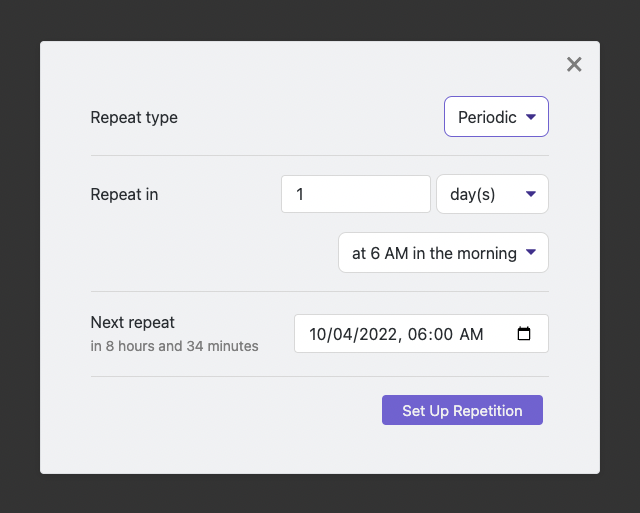
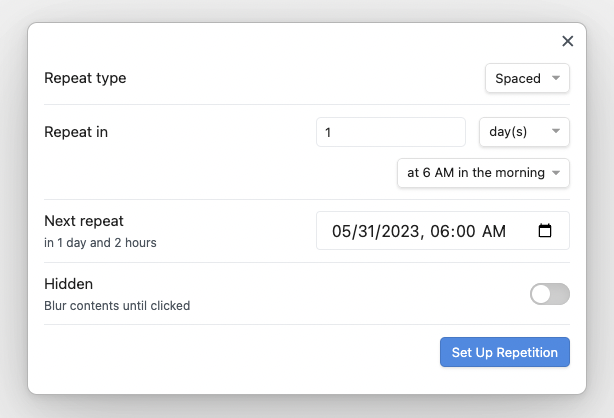
Streamline the README (#23)

diff --git a/README.md b/README.md
@@ -1,110 +1,100 @@
-# Repeat Plugin for Obsidian
+# Obsidian Repeat Plugin: Enhance Your Note Review Experience
 
-This plugin allows you to review notes using periodic or spaced repetition:
+The Obsidian Repeat Plugin offers a comprehensive solution for efficiently reviewing notes using periodic and spaced repetition.
+By integrating directly into your Obsidian workspace, this plugin provides a streamlined and effective way to revisit and retain information from your notes over time:
 
-*   Reviews of notes using **periodic repetition** can occur daily, weekly, monthly, yearly, or every _K_  days/weeks/months/years. By default, periodic reviews become due early in the morning so that all periodic notes due on a given date become due at the same time.
-*   Reviews of notes using **spaced repetition** occur on an dynamic schedule. You can choose how to modify a spaced note's review frequency at each review. For example, if the current review frequency is every 10 days, then you can choose the next review to occur in 5 days (0.5x), 10 days (1x), 15 days (1.5x), or 20 days (2x).
+1. **Periodic Repetition**:
+   - Seamlessly review your notes on a recurring basis.
+   - Customize the frequency of reviews to suit your preferences.
+   - Choose from a range of options: daily, weekly, monthly, yearly, or set a specific interval of K days/weeks/months/years.
+   - By default, periodic reviews are scheduled early in the morning, ensuring all notes due on a given date are conveniently reviewed together.
 
-### Some Usage Examples
+2. **Spaced Repetition**:
+   - Optimize your learning with a dynamic review schedule.
+   - Modify the frequency of spaced repetition for each note during reviews.
+   - For instance, if the current review frequency is set at every 10 days, you can effortlessly adjust the next review to occur in 5 days (0.5x), 10 days (1x), 15 days (1.5x), or 20 days (2x).
 
-*   Review your journal entries every year to gain insights into what you were thinking about 1, 2, 3... years ago.
-*   Surface weekly reminders for recurring tasks. E.g., review journal articles every Wednesday.
-*   Create a book note when you start a new read. Then surface the note every few days and add your thoughts about the book so far.
-*   Summarize a concept you wish to remember, then use spaced repetition to remember it in the long term.
+Our plugin provides a seamless and versatile note reviewing experience, allowing you to maximize retention and effectively manage your knowledge.
 
-### Installation
+## Why Use the Repeat Plugin?
 
-1.  Install the DataView plugin (which is used to query notes frontmatter).
-2.  Install the Repeat plugin (this plugin).
+* **Gain Insights Over Time**: Consider the value of gaining insights into your thoughts and ideas from previous years. With the Repeat Plugin, you can review your journal entries or any other notes on a yearly basis, giving you a unique perspective on your personal growth and evolving perspectives.
 
-## Reviewing Notes
+* **Stay on Top of Recurring Tasks and Goals**: The plugin also serves as a handy reminder system for recurring tasks. Whether it's reviewing journal articles every Wednesday or going through your task list at specific intervals, the Repeat Plugin can surface these reminders to help you stay on track and make progress.
 
-Reviews are conducted through a **Repeat view** added by this plugin. To open the Repeat view, you can either click the "clock" icon in Obsidian's ribbon menu, or run the _Review due notes_ command.
+* **Get the Most from Your Reading**: Are you an avid reader? By creating a book note when you start a new read and using spaced repetition, you can reinforce your understanding of the book's content by occasionally adding your thoughts and reflections. This way, you'll have a comprehensive summary of your reading experience and a deeper understanding of the material.
 
-![A demonstration of Repeat Plugin's note reviews](./images/repeat-view.png)
+- **Long-Term Knowledge Retention**: If you're studying complex concepts or want to ensure long-term retention of important information, the Repeat Plugin can assist you. Summarize the key points of a concept you wish to remember and use spaced repetition to reinforce it over time. You can even keep the body of the note you're reviewing hidden until you're ready to check your answer. This technique will help you solidify your understanding and recall the information when you need it most.
 
-## Choosing Notes to Repeat
+## Installation and Integration
 
-To mark a note as repeating, you can use one of the following **commands** while editing a note:
+Getting started with the Repeat Plugin is a breeze and consists of going to Obsidian's community plugins list (via Settings > Options > Community plugins > Browse) and installing
 
-*   _Repeat this note..._ lets you customize a note's repetition.
-*   _Repeat this note every day_
-*   _Repeat this note every week_
-*   _Repeat this note every month_
-*   _Repeat this note every year_
+1. The Dataview Plugin
+2. The Repeat Plugin
 
-This is what the _Repeat this note..._ modal looks like:
+Once installed, the Repeat Plugin adds a **Repeat view** to your Obsidian workspace.
+Simply click the "clock" icon in Obsidian's ribbon menu or run the **Review due notes** command to access the Repeat view.
+
+You may also notice a due note counter added to Obsidian's status bar.
+Initially, you won't have any notes due, so read on to find out how to mark notes for repetition.
+Once a note becomes due for review, the due note counter in the status bar will update and you will be able to review the note in the newly added Repeat view.
+
+## Tailoring Your Note Reviews
+
+The Repeat Plugin offers flexible options for choosing which notes to review and customizing their repetition patterns.
+This section describes how you can make the most of it.
+
+### 1. Easily Mark a Note for Repetition
+
+While editing a note, you can use convenient commands to mark it for repetition:
+
+- **Repeat this note...**: Opens a modal where you can customize the note's repetition settings.
+- **Repeat this note every day/week/month/year**: Quickly set the note to repeat at regular intervals.
 
 ![The "Repeat this note..." modal](./images/modal.png)
 
-Repetition state is stored in the `repeat` and `due_at` frontmatter fields.
+Repetition information is stored in the `repeat`, `due_at`, and `hidden` frontmatter fields of the note.
+You can also manually create or edit these fields to customize the repetition settings.
 
-```yaml
----
-repeat: every 3 days
-due_at: 2022-10-03T06:00:00.000-04:00
----
-```
+### 2. Customizing Repetition Patterns
 
-You can also create or edit these fields manually instead of via a command. If you add the `repeat` field to a note's frontmatter, the plugin will use some basic heuristics to figure out when its first review should be. After the first review, `due_at` is automatically populated with an [ISO datetime](https://github.com/moment/luxon/blob/master/docs/parsing.md#iso-8601) of the next review. Repeat plugin is careful not to change any other frontmatter fields when you use its repeat setup commands.
+The `repeat` field allows you to define the repetition pattern for your notes. Here are some formatting options:
 
-### `repeat` Field Formatting
+- **Periodic Repetition**: Use values like `daily`, `weekly`, `monthly`, `yearly`, or specify a specific interval like `every K days/weeks/months/years`.
+- **Spaced Repetition**: Use the format `spaced every K hours/days/weeks/months/years` to pick the initial review period. Future review periods will be dynamically set at review time by the plugin.
 
-You can always use the _Repeat this note..._ command to fix or set up the repeat frontmatter fields of a note. If you wish to configure repeat notes manually or for a template, use one of the recognized values described below. If in doubt, see `parseRepeat()` in `src/repeat/parsers.ts`.
-#### For **Notes Using Periodic Repetition**
+For example, if you want to review a note every three days, set the `repeat` field to `every 3 days`.
+The plugin will automatically calculate the next review date based on this pattern and populate the `due_at` field when you first review the note.
 
-*   `daily`
-*   `weekly`
-*   `monthly`
-*   `yearly`
-*   `every day`, `every week`, `every month`, `every year`
-*   `every K days`, `every K weeks`, `every K months`, `every K years` for `K = 1, 2, 3, ...`
+### 3. Morning or Evening Repetition
 
-#### For **Notes Using Spaced Repetition**
+By default, periodic notes and spaced notes with intervals of at least a week become due at 6 AM. If you prefer an evening review, you can add `in the evening` to the note's repeat field.
+For example, changing `repeat: every 2 weeks` to `repeat: every 2 weeks in the evening` will make the note due at 6 **PM** every two weeks.
 
-*   `spaced every K hours`, `spaced every K days`, `spaced every K weeks`, `spaced every K months`, `spaced every K years` for `K = 1, 2, 3, ...`
-*   On first review, notes using spaced repetition will have their repeat field modified to `spaced every K hours`
+You can also adjust the repetition time using the convenient options available in the "Repeat this note..." modal. If you choose a note for evening repetition, your choice will of course be preserved between reviews.
 
-#### Morning or Evening Repetition
+### 4. One-Sided Flashcards
 
-All periodic notes and spaced notes with a repetition interval of at least
-a week become due at 6AM in the morning. You can make them become due at 6PM
-in the evening by adding `in the evening` to the end of the note's repeat field.
-For example, you would turn
+When you enable the "Hidden" option while adjusting the repetition fields of a note in the "Repeat this note..." modal (manually represented as `hidden: true`), the content of your note will appear blurred in the Repeat view. By clicking on the blurred content, you can reveal the hidden information, allowing you to effectively test your knowledge and strengthen your understanding using one-sided flashcards.
 
-```
-repeat: spaced every 14 days
-```
+### 5. Extra Features
 
-to
+You have the option to exclude a specific folder from note reviews, which proves especially beneficial if your vault includes templates.
+Accessing the settings for the Repeat Plugin is easy: simply go to Settings > Community plugins > Repeat.
 
-```
-repeat: spaced every 14 days in the evening
-```
+By leveraging the power of Dataview queries, you can delve deeper into the notes you review in your vault.
+The information regarding how a note is reviewed is stored in a few key fields within the note's frontmatter, so you can write queries against them.
+To explore the capabilities of Dataview queries and gain further insights, refer to [Dataview's documentation](https://blacksmithgu.github.io/obsidian-dataview/).
 
-You can also use the _Repeat this note..._ modal to adjust the repetition time.
+## Additional Resources and Development
 
+The Repeat Plugin offers a wide range of possibilities to optimize your note review process.
+If you're interested in further exploring the plugin's features or contributing to its development, here are some resources to check out:
 
-### The `hidden` Field
+- **More Tools**: The `add_repeat_to_notes.py` script from [https://github.com/prncc/obsidian-scripts](https://github.com/prncc/obsidian-scripts) allows you to interactively add the `repeat` field to notes in your existing vault. The Repeat Plugin will be able to pick up those notes from there.
+- **Development**: Pull requests are welcome for the Repeat Plugin. If you have a significant change in mind, create an issue to discuss it with the community first. You may also find some issues with the "help wanted" tag in the Issues tab of [the plugin's GitHub repo](https://github.com/prncc/obsidian-repeat-plugin).
+- **Similar Software**: [msipos/mind-palace: Mind palace: mnemonic note taking system.](https://github.com/msipos/mind-palace)
 
-If you want your note's content to be blurred during reviews, add the `hidden`
-metadata flag:
-
-```
-hidden: true
-```
-
-When you click the blurred content, it will be revealed. This allows you to
-build one-sided flashcards with the plugin.
-
-## Similar Software
-
-* [msipos/mind-palace: Mind palace: mnemonic note taking system.](https://github.com/msipos/mind-palace)
-
-## More Tools
-
-* The `add_repeat_to_notes.py` script from https://github.com/prncc/obsidian-scripts allows you to interactively add the `repeat` field to your existing vault.
-
-## Development
-
-Pull Requests are welcome. If you intend to make a significant change, please create an issue to discuss it first.
+The Obsidian Repeat Plugin empowers you to make the most of your notes and ensure long-term retention of valuable information.
+With its seamless integration and customizable features, this plugin is a valuable addition to any knowledge worker's toolkit.
